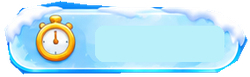
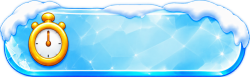
Refine stage HUD with seamless ice panels

diff --git a/pingu_ball/app.py b/pingu_ball/app.py
@@ -98,8 +98,9 @@ class App:
         # Render the lettering directly on the seamless button face. A real
         # bold font and a thin antialiased edge match the surrounding ice UI.
         bold_font=Path(self.font_path).with_name('malgunbd.ttf') if self.font_path else None
-        sound_font=pygame.font.Font(str(bold_font) if bold_font and bold_font.exists() else self.font_path,69)
-        if not bold_font or not bold_font.exists():sound_font.set_bold(True)
+        self.bold_font_path=str(bold_font) if bold_font and bold_font.exists() else None
+        sound_font=pygame.font.Font(self.bold_font_path or self.font_path,69)
+        if not self.bold_font_path:sound_font.set_bold(True)
         self.sound_labels={}
         for enabled,label in ((True,'소리 켜짐'),(False,'소리 꺼짐')):
             letters=sound_font.render(label,True,WHITE)
@@ -182,8 +183,10 @@ class App:
             pygame.draw.rect(self.canvas, (215, 253, 255), rect, 2, border_radius=16)
         self.buttons.append((rect, callback))
 
-    def fitted_text(self, label, rect, size=30, color=INK, bold=True, outline=None):
+    def fitted_text(self, label, rect, size=30, color=INK, bold=True, outline=None, natural=False):
         rect = pygame.Rect(rect)
+        if natural:
+            return self.ice_text(label,rect,size,color,bold,outline)
         while size > 12:
             key=(size,bold)
             if key not in self._font_cache:
@@ -198,6 +201,37 @@ class App:
             for dx,dy in ((-2,0),(2,0),(0,-2),(0,2),(-1,-1),(1,-1),(-1,1),(1,1)):
                 self.text(label,rect.centerx+dx,rect.centery+dy,size,outline,bold,True)
         return self.text(label, *rect.center, size, color, bold, True)
+
+    def ice_text(self,label,rect,size,color,bold,outline):
+        """Cache smooth live lettering, centered by visible glyphs on the ice."""
+        key=('ice',str(label),size,tuple(color),bold,outline,rect.size)
+        image=self._text_cache.get(key)
+        if image is None:
+            font_key=('ice',size,bold)
+            if font_key not in self._font_cache:
+                font=pygame.font.Font(self.bold_font_path if bold and self.bold_font_path else self.font_path,size*3)
+                if bold and not self.bold_font_path:font.set_bold(True)
+                self._font_cache[font_key]=font
+            font=self._font_cache[font_key]
+            letters=font.render(str(label),True,color)
+            padding=4 if outline else 0
+            image=pygame.Surface((letters.get_width()+padding*2,letters.get_height()+padding*2),pygame.SRCALPHA)
+            if outline:
+                edge=font.render(str(label),True,outline)
+                for dx,dy in ((-4,0),(4,0),(0,-4),(0,4),(-3,-3),(3,-3),(-3,3),(3,3)):
+                    image.blit(edge,(padding+dx,padding+dy))
+            image.blit(letters,(padding,padding))
+            image=image.subsurface(image.get_bounding_rect()).copy()
+            scale=min(1/3,rect.w/image.get_width(),rect.h/image.get_height())
+            image=pygame.transform.smoothscale(image,(max(1,round(image.get_width()*scale)),max(1,round(image.get_height()*scale))))
+            image=image.subsurface(image.get_bounding_rect()).copy()
+            self._text_cache[key]=image
+            if len(self._text_cache)>128:self._text_cache.popitem(last=False)
+        else:
+            self._text_cache.move_to_end(key)
+        target=image.get_rect(center=rect.center)
+        self.canvas.blit(image,target)
+        return target
 
     def prepare_sounds(self):
         if not pygame.mixer.get_init():
@@ -305,9 +339,8 @@ class App:
         ui.blit(self.canvas,name)
         self.art_button(ui.list_back[name],self.menu)
         completed = sum(str(i) in self.progress.records for i in range(1, REGULAR_STAGE_COUNT+1))
-        counter=ui.list_rect(name,(756,127,211,43))
-        pygame.draw.rect(self.canvas,(197,243,255),counter,border_radius=12)
-        self.fitted_text(f'{completed} / {REGULAR_STAGE_COUNT} 완료',counter,24,(3,40,98))
+        counter=ui.list_rect(name,(737,126,240,46))
+        self.fitted_text(f'{completed} / {REGULAR_STAGE_COUNT} 완료',counter,24,(3,40,98),natural=True)
         for index, rect in enumerate(ui.regular_cards,1):
             unlocked = index <= self.progress.unlocked
             record = self.progress.records.get(str(index))
@@ -582,8 +615,8 @@ class App:
         ui.blit(self.canvas,'hud_stage')
         tutorial=self.lab_id is not None or world.level.index==0
         label='TUTORIAL' if tutorial else f'STAGE {world.level.index:02d}'
-        self.fitted_text(label,(124,34,166,30),21,WHITE)
-        self.fitted_text(world.level.title,(96,66,203,48),34,WHITE,outline=(7,44,104))
+        self.fitted_text(label,(124,34,166,30),21,WHITE,outline=(7,44,104),natural=True)
+        self.fitted_text(world.level.title,(96,66,203,48),34,WHITE,outline=(7,44,104),natural=True)
         total = sum(fish.value > 0 for fish in world.level.collectibles)
         if total or any(fish.value<0 for fish in world.level.collectibles):
             self.panel((399,29,226,52),(223,250,255,250),18)
@@ -592,7 +625,7 @@ class App:
             self.fish(544,55,42,bone=True)
             self.text(str(world.minus),571,39,22,INK,True)
         ui.blit(self.canvas,'hud_timer')
-        self.fitted_text(f'{world.time:.2f}초',(783,42,143,39),28,INK)
+        self.fitted_text(f'{world.time:.2f}초',(782,32,144,46),28,(3,40,98),natural=True)
         for name,callback in [('pause',self.toggle_pause),('restart',self.restart),('select',self.menu)]:
             key='hud_'+name
             ui.blit(self.canvas,key)

diff --git a/tools/prepare_ui_assets.py b/tools/prepare_ui_assets.py
@@ -3,6 +3,8 @@
 Usage: python tools/prepare_ui_assets.py --source-dir SOURCE_DIRECTORY
 SOURCE_DIRECTORY contains menu.png, pause-no-hint.png, result.png and
 play-reference.png from the approved UI review.
+The standalone hud_stage.png and hud_timer.png are maintained separately;
+keep their approved seamless ice artwork when extracting the other controls.
 """
 import argparse
 from pathlib import Path
@@ -15,6 +17,9 @@ def main():
     args = parser.parse_args()
     target = Path(__file__).resolve().parents[1]/'assets/ui'
     target.mkdir(parents=True, exist_ok=True)
+    for name in ('hud_stage.png','hud_timer.png'):
+        if not (target/name).is_file():
+            raise FileNotFoundError(f'Restore the approved standalone HUD artwork: {target/name}')
     def save(image,name):
         destination=target/(name+'.png')
         temporary=destination.with_suffix('.png.tmp')
@@ -56,14 +61,6 @@ def main():
         else:d.rounded_rectangle((1,1,patch.width-2,patch.height-2),radius=radius,fill=255)
         patch.putalpha(mask)
         return patch
-    stage=element((18,10,355,155),[(30,125),(24,89),(38,54),(43,26),(77,24),(115,26),(150,16),(193,18),(220,18),(262,21),(290,32),(323,49),(339,76),(347,114),(335,142),(294,151),(61,153)])
-    d=ImageDraw.Draw(stage)
-    d.rounded_rectangle((118,32,300,66),radius=9,fill='#0b83c5')
-    d.rounded_rectangle((89,68,320,125),radius=13,fill='#4fbeeb')
-    save(stage.resize((297,128),Image.Resampling.LANCZOS),'hud_stage')
-    timer=element((725,24,1009,111),[(730,56),(750,33),(778,28),(793,25),(823,29),(857,31),(953,32),(979,39),(997,51),(1005,69),(994,92),(972,105),(751,107),(737,94)])
-    ImageDraw.Draw(timer).rounded_rectangle((108,29,254,69),radius=10,fill='#b9f0fa')
-    save(timer.resize((250,77),Image.Resampling.LANCZOS),'hud_timer')
     for name,box in [('pause',(1161,29,1349,130)),('restart',(1355,29,1536,130)),('select',(1542,29,1722,130))]:
         patch=element(box,radius=31)
         save(patch.resize((round(patch.width*.88),round(patch.height*.88)),Image.Resampling.LANCZOS),'hud_'+name)

diff --git a/pingu_ball/ice_ui.py b/pingu_ball/ice_ui.py
@@ -73,6 +73,7 @@ class IceUI:
             ('menu','menu_tutorial_count_removed',(603,586,183,43)),
             ('menu','menu_regular_count_removed',(1088,585,181,44)),
             ('regular_menu','regular_first_button_removed',(83,339,241,70)),
+            ('regular_menu','regular_counter_blank',(741,125,235,48)),
             ('tutorial_menu','tutorial_menu_sound_cleared',(1504,812,225,92)),
             ('regular_menu','regular_menu_sound_cleared',(1455,816,275,87)),
         ):

diff --git a/assets/ui/README.md b/assets/ui/README.md
@@ -4,6 +4,17 @@ The four screen references were supplied and approved by the user. These
 runtime PNGs are extracted by `tools/prepare_ui_assets.py`; the game needs
 only Pygame, not Pillow. All hit regions use the 1600×832 logical canvas.
 
+`hud_stage.png` and `hud_timer.png` use the approved seamless ice design.
+Built-in imagegen edit prompts: remove the flat inner text patches, restore
+continuous illuminated faceted ice, and preserve the snowy frame, flag or
+stopwatch, empty live-text areas and transparent exterior. The approved
+comparison is `output/hud-natural-preview/comparison.png` (local review output).
+`regular_counter_blank.png` similarly removes the baked completion count from
+the original list panel while preserving its rim and subtitle. Live stage,
+timer and count lettering is antialiased and centered by visible glyph bounds;
+no solid rectangles are drawn beneath it. `prepare_ui_assets.py` preserves
+these separately maintained HUD panels when preparing the other controls.
+
 `tutorial_menu.png` and `regular_menu.png` are the two supplied stage-list
 screens (1737×906), scaled once to the logical canvas. Their ten tutorial
 cards, twelve regular cards, back buttons and sound buttons use matching
